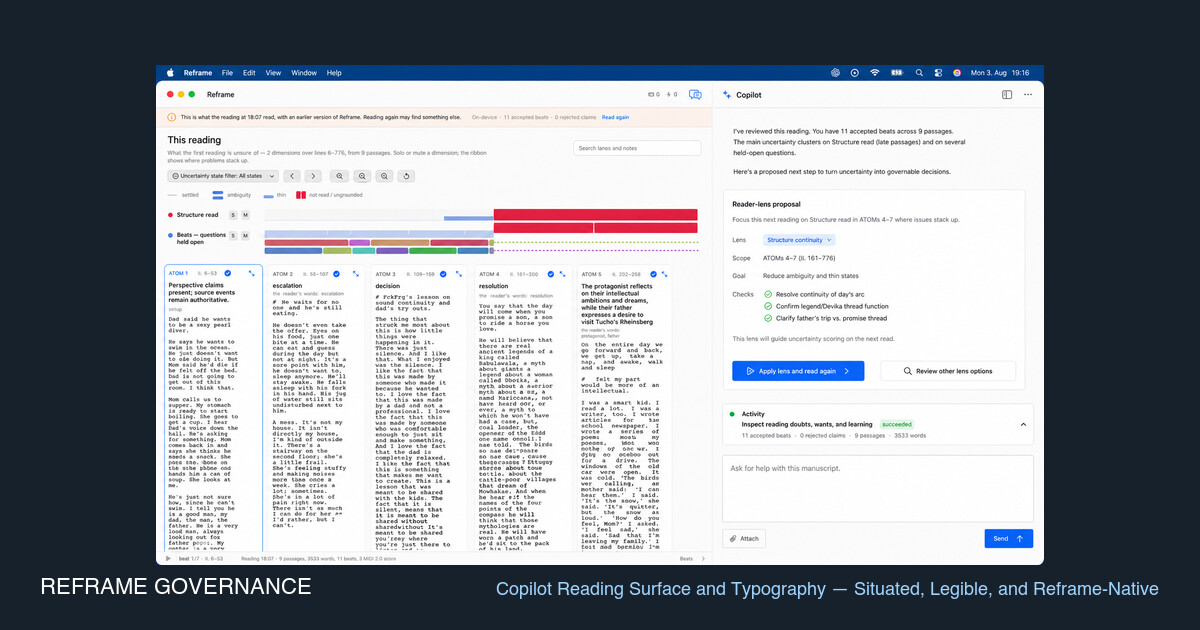
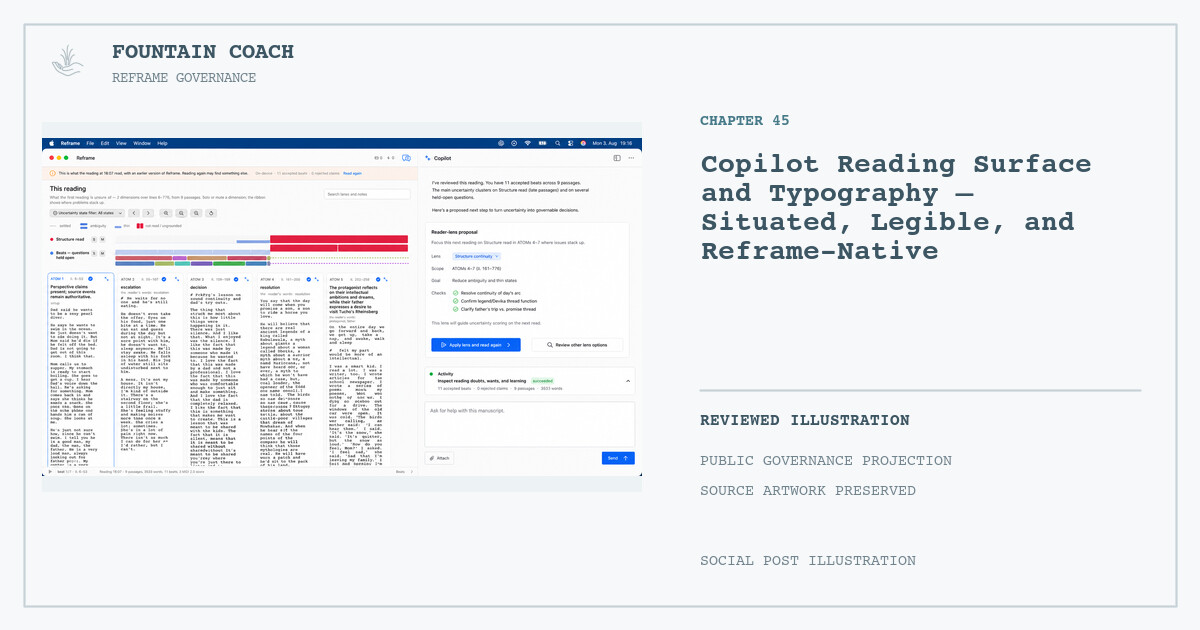
Refine social illustration visual system

diff --git a/site/build-governance-site.py b/site/build-governance-site.py
@@ -92,15 +92,42 @@ def build_social_card(path: Path, title: str) -> str | None:
             subprocess.run(["rsvg-convert", "-o", str(rendered_source), str(source)], check=True)
         else:
             rendered_source = source
+        image_panel = Path(temp_dir) / "image-panel.png"
         subprocess.run([
-            "magick", "-size", "1200x630", "xc:#17212b",
-            "(", str(rendered_source), "-auto-orient", "-resize", "1120x500>",
-            "-background", "#17212b", "-gravity", "center", "-extent", "1120x500", ")",
-            "-gravity", "center", "-composite",
-            "-fill", "white", "-font", "Helvetica", "-pointsize", "22",
-            "-gravity", "southwest", "-annotate", "+40+30", "REFRAME GOVERNANCE",
-            "-fill", "#9fd4ff", "-pointsize", "18", "-gravity", "southeast",
-            "-annotate", "+40+30", title,
+            "magick", str(rendered_source), "-auto-orient", "-resize", "600x370>",
+            "-background", "#edf2f4", "-gravity", "center", "-extent", "600x370", str(image_panel),
+        ], check=True)
+        logo = Path(temp_dir) / "logo.png"
+        subprocess.run([
+            "magick", str(LOGO), "-resize", "52x52", "-fill", "#607985", "-colorize", "100%", str(logo),
+        ], check=True)
+        title_image = Path(temp_dir) / "title.png"
+        subprocess.run([
+            "magick", "-background", "none", "-fill", "#3d5664", "-font", "Courier-Bold",
+            "-pointsize", "28", "-size", "430x160", f"caption:{title}", str(title_image),
+        ], check=True)
+        subprocess.run([
+            "magick", "-size", "1200x630", "xc:#f6f8f9",
+            "-stroke", "#c6d1d7", "-strokewidth", "2", "-fill", "none",
+            "-draw", "rectangle 24,24 1176,606",
+            str(image_panel), "-geometry", "+42+122", "-composite",
+            str(logo), "-geometry", "+42+36", "-composite",
+            "-stroke", "none",
+            "-font", "Courier-Bold", "-fill", "#3d5664", "-pointsize", "22",
+            "-draw", "text 112,58 'FOUNTAIN COACH'",
+            "-font", "Courier", "-fill", "#72848e", "-pointsize", "14",
+            "-draw", "text 112,82 'REFRAME GOVERNANCE'",
+            "-font", "Courier-Bold", "-fill", "#477a88", "-pointsize", "15",
+            "-draw", f"text 700,125 'CHAPTER {path.stem[:2] if path.stem[:2].isdigit() else '—'}'",
+            str(title_image), "-geometry", "+700+150", "-composite",
+            "-stroke", "#c6d1d7", "-strokewidth", "2", "-draw", "line 700,390 1140,390",
+            "-stroke", "none",
+            "-font", "Courier-Bold", "-fill", "#3d5664", "-pointsize", "16",
+            "-draw", "text 700,425 'REVIEWED ILLUSTRATION'",
+            "-font", "Courier", "-fill", "#72848e", "-pointsize", "15",
+            "-draw", "text 700,465 'PUBLIC GOVERNANCE PROJECTION'",
+            "-draw", "text 700,495 'SOURCE ARTWORK PRESERVED'",
+            "-draw", "text 700,565 'SOCIAL POST ILLUSTRATION'",
             "-strip", "-quality", "90", str(destination),
         ], check=True)
     return social_card_for(path)

diff --git a/PLANS.md b/PLANS.md
@@ -258,6 +258,9 @@ AX/VRT acceptance; external publishing remains separately authorized.
 **Result:** generated cards for chapters 45, 79, 82, and 84; local AX/VRT passed; publication commit `951bf9c` was
 deployed as release `release-20260818T050939Z-43273`; Chapter 84 card and metadata return HTTPS 200.
 
+**Visual correction:** rebuilt the derivative as a white Fountain Coach/Courier composition with muted blue-grey ink,
+unified spacing, and the reviewed illustration placed in a consistent left media frame.
+
 ## Current gate — governance legal publication surface (2026-08-17)
 
 **Goal:** expose the same legal/publication boundary as the Book of Reframe on every governance route through a
